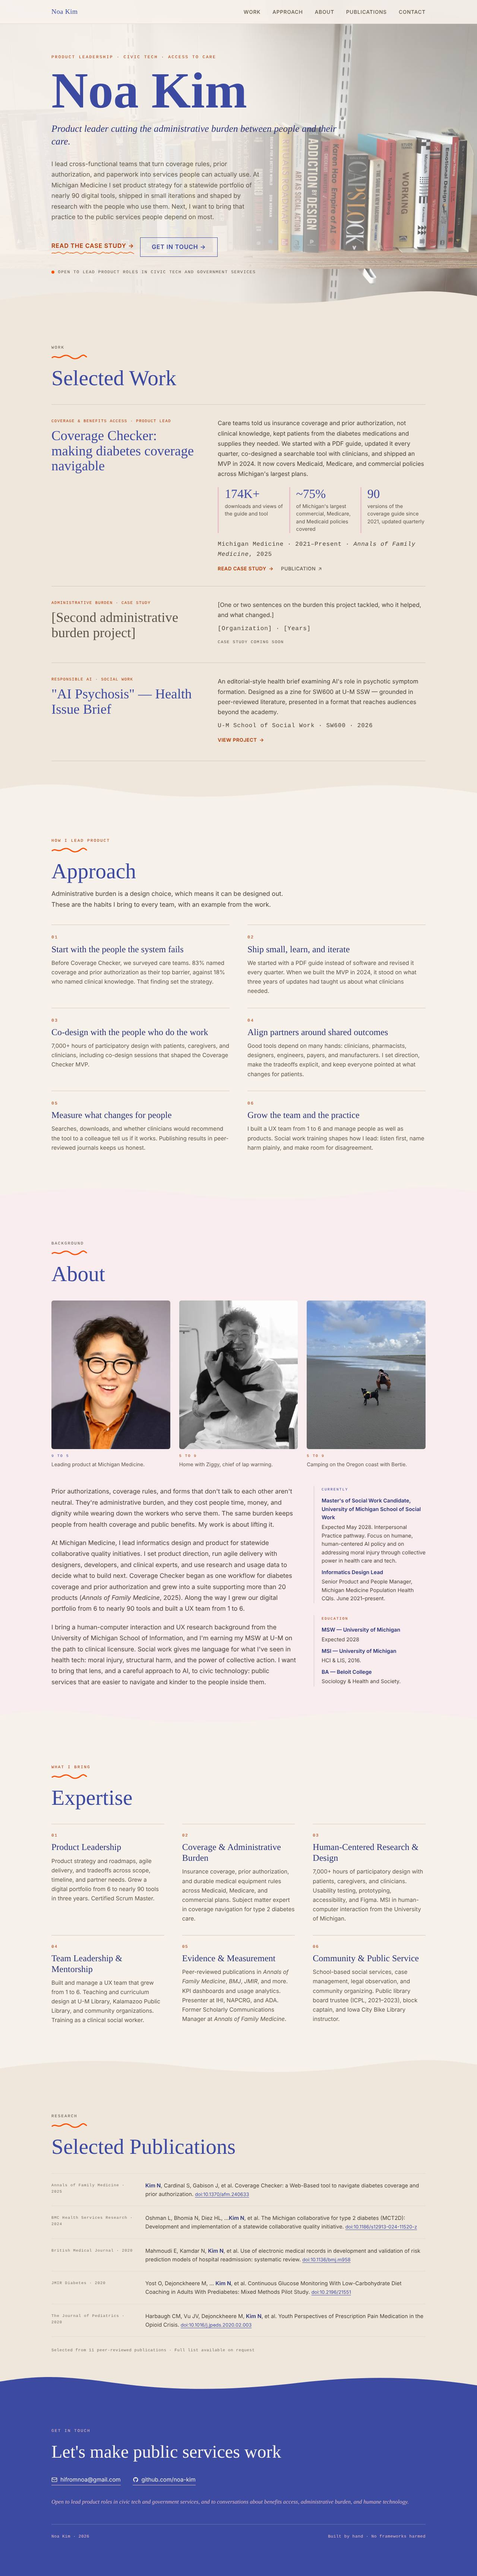
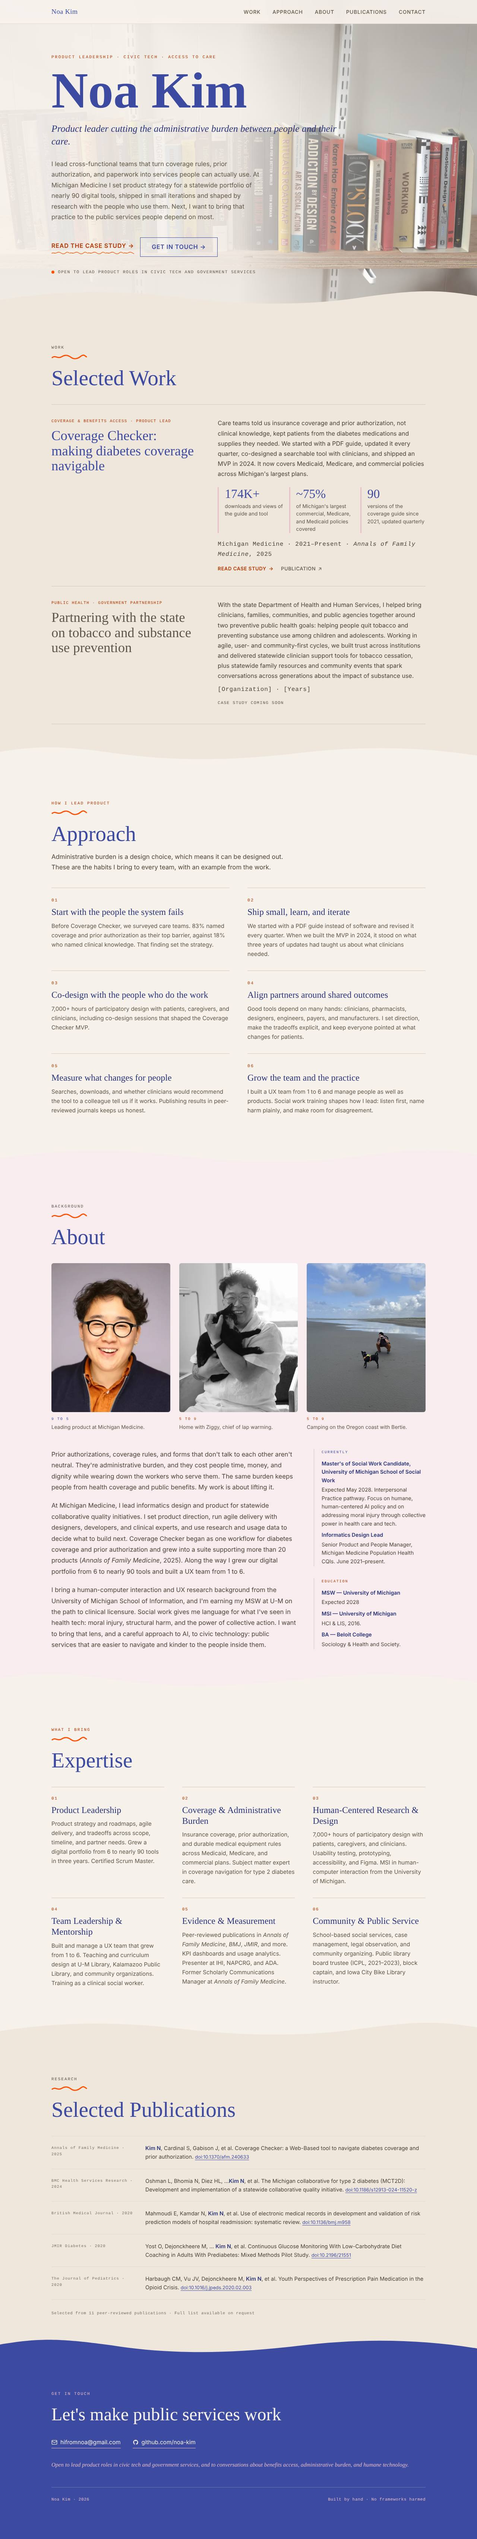
Fill the public health partnership card and drop the AI brief
Replaces the second case study placeholder with Noa's state health
department partnership on tobacco cessation and youth substance use
prevention (organization and years still placeholders), and removes
the AI psychosis brief card. Refreshes previews.

Claude-Session: https://claude.ai/code/session_01N1cWYNiauM474wEJeNwVjT

diff --git a/index.html b/index.html
@@ -902,23 +902,18 @@
           </article>
 
           <article class="project-card project-card--soon">
-            <span class="project-tag">Administrative burden · Case study</span>
-            <h3>[Second administrative burden project]</h3>
+            <span class="project-tag">Public health · Government partnership</span>
+            <h3>Partnering with the state on tobacco and substance use prevention</h3>
             <p>
-              [One or two sentences on the burden this project tackled, who it helped, and what changed.]
+              With the state Department of Health and Human Services, I helped bring clinicians, families, communities, and
+              public agencies together around two preventive public health goals: helping people quit tobacco and
+              preventing substance use among children and adolescents. Working in agile, user- and community-first cycles,
+              we built trust across institutions and delivered statewide clinician support tools for tobacco cessation,
+              plus statewide family resources and community events that spark conversations across generations about
+              the impact of substance use.
             </p>
             <p class="project-meta">[Organization] · [Years]</p>
             <span class="project-soon">Case study coming soon</span>
-          </article>
-
-          <article class="project-card">
-            <span class="project-tag">Responsible AI · Social work</span>
-            <h3>"AI Psychosis" — Health Issue Brief</h3>
-            <p>
-              An editorial-style health brief examining AI's role in psychotic symptom formation. Designed as a zine for SW600 at U-M SSW — grounded in peer-reviewed literature, presented in a format that reaches audiences beyond the academy.
-            </p>
-            <p class="project-meta">U-M School of Social Work · SW600 · 2026</p>
-            <a href="../SW600/" class="project-link" aria-label="View the AI Psychosis health issue brief">View project</a>
           </article>
 
         </div>
